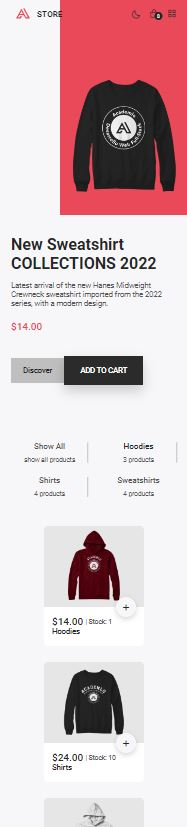
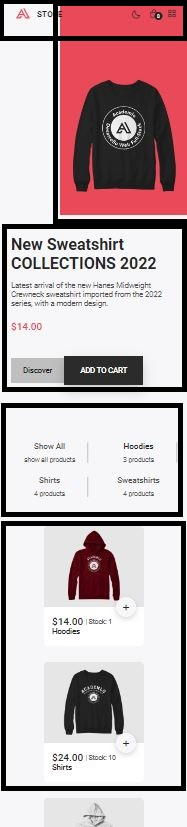
commit

Changed region(s): [[0.0, 0.0, 1.0, 0.9674]]

diff --git a/index.html b/index.html
@@ -7,9 +7,39 @@
     <title>Academlo Store</title>
 </head>
 <body>
-<header>
+  <header>
+    <!--========== Logo Academlo con contorno ==========-->
+    <nav class="navigator">
 
+      <svg xmlns="http://www.w3.org/2000/svg" viewBox="0 0 48.92 56.48">
+          <title>Academlo Logo</title>
+          <g>
+              <g>
+                  <path
+                  d="M24.45,56.48,0,42.36V14.12L24.46,0,48.92,14.12V42.36ZM1.89,41.26l22.56,13L47,41.26v-26l-22.56-13-22.56,13Z">
+                  </path>
+                  <path
+                  d="M28.58,15.39H25.16L35.78,36H31.49L20.67,15.71,8.23,38.82H18.94l3-5.43h-3.4l-1.47,2.54h-4l2.69-5.09H25.85l4.28,8H40.67ZM17.23,28.21l3.57-6.6,3.57,6.6Z">
+                  </path>
+              </g>
+          </g>
+      </svg>
+    
 
+      <!--=========== Logo Academlo sin contorno ==========-->
+      
+      <svg xmlns="http://www.w3.org/2000/svg" viewBox="0 0 48.92 56.48">
+          <title>Academlo Logo</title>
+          <g>
+            <g>
+              <path
+                d="M28.58,15.39H25.16L35.78,36H31.49L20.67,15.71,8.23,38.82H18.94l3-5.43h-3.4l-1.47,2.54h-4l2.69-5.09H25.85l4.28,8H40.67ZM17.23,28.21l3.57-6.6,3.57,6.6Z">
+              </path>
+            </g>
+          </g>
+      </svg>
+   
+    </nav>
 
 
 
@@ -96,8 +126,7 @@
 
 
 
-
-</header>
+  </header>
 <section>
 
   
@@ -297,36 +326,7 @@
 
 
 
-</section> <!--========== Logo Academlo con contorno ==========-->
-    <!-- 
-    <svg xmlns="http://www.w3.org/2000/svg" viewBox="0 0 48.92 56.48">
-        <title>Academlo Logo</title>
-        <g>
-            <g>
-                <path
-                d="M24.45,56.48,0,42.36V14.12L24.46,0,48.92,14.12V42.36ZM1.89,41.26l22.56,13L47,41.26v-26l-22.56-13-22.56,13Z">
-                </path>
-                <path
-                d="M28.58,15.39H25.16L35.78,36H31.49L20.67,15.71,8.23,38.82H18.94l3-5.43h-3.4l-1.47,2.54h-4l2.69-5.09H25.85l4.28,8H40.67ZM17.23,28.21l3.57-6.6,3.57,6.6Z">
-                </path>
-            </g>
-        </g>
-    </svg>
-    -->
-
-    <!--=========== Logo Academlo sin contorno ==========-->
-    <!--
-    <svg xmlns="http://www.w3.org/2000/svg" viewBox="0 0 48.92 56.48">
-        <title>Academlo Logo</title>
-        <g>
-          <g>
-            <path
-              d="M28.58,15.39H25.16L35.78,36H31.49L20.67,15.71,8.23,38.82H18.94l3-5.43h-3.4l-1.47,2.54h-4l2.69-5.09H25.85l4.28,8H40.67ZM17.23,28.21l3.57-6.6,3.57,6.6Z">
-            </path>
-          </g>
-        </g>
-    </svg>
-    -->
+</section> 
 </body>
 </html>
 

diff --git a/assets/css/style.css b/assets/css/style.css
@@ -32,4 +32,8 @@
     --container-color: hsl(246, 16%, 12%);
     --border-color: hsl(0, 0%, 20%);
 */
+
+.navigator{
+  height: 6rem;
+}
   
